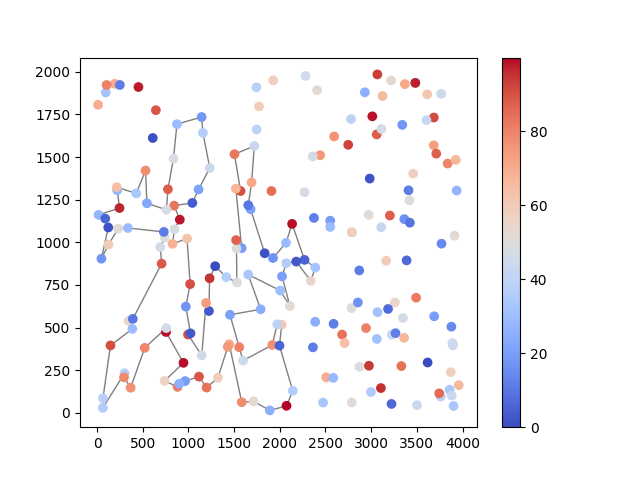
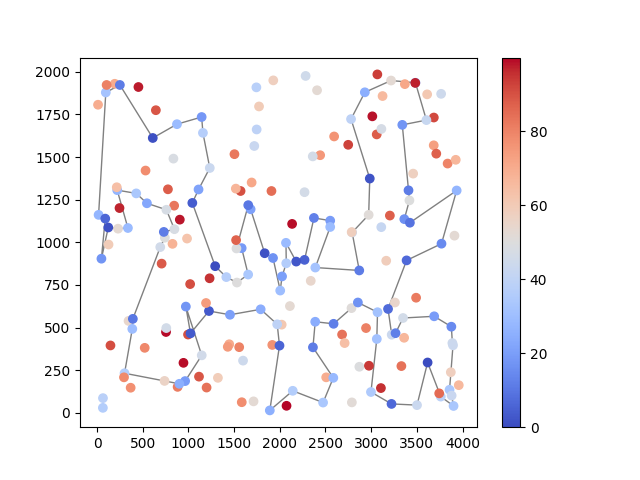
silly bug fix

diff --git a/1/greedyCycle.py b/1/greedyCycle.py
@@ -7,7 +7,7 @@ TOTAL_SOLUTIONS = 200
 
 data = read_file()
 matrix = get_matrix(data)
-costs = get_costs(matrix)
+costs = get_costs(data)
 to_find = ceil(len(matrix) / 2)
 indices = [idx for idx, _ in enumerate(matrix)]
 
@@ -16,25 +16,16 @@ res = []
 run_time = time()
 
 def get_insert_cost(solution, node, idx):
-    if len(solution) == 1 or len(solution) == idx + 1:
-        return matrix[solution[-1]][node] + matrix[node][solution[0]] + costs[node]
-    return costs[node] + matrix[solution[idx]][node] + matrix[node][solution[idx+1]] - matrix[solution[idx]][solution[idx+1]]
+    if idx == 0 or len(solution) == idx:
+        return matrix[solution[-1]][node] + costs[node] + matrix[node][solution[0]] - matrix[solution[-1]][solution[0]] 
+    return costs[node] + matrix[solution[idx - 1]][node] + matrix[node][solution[idx]] - matrix[solution[idx - 1]][solution[idx]]
 
 for _ in range(TOTAL_SOLUTIONS):
     sol = [choice(indices)]
     while len(sol) < to_find:
-        possible_next_node = (i for i in indices if i not in sol)
-        # All inserts after idx
-        possible_inserts = ((i, idx) for i in indices for idx in range(len(sol)) if i not in sol)
+        possible_inserts = ((i, idx) for i in indices for idx in range(len(sol) + 1) if i not in sol)
         next = min(possible_inserts, key=lambda x: get_insert_cost(sol, x[0], x[1]))
-        # Insert at the beginning
-        beginning_next = min(possible_next_node, key=lambda x: costs[x] + matrix[x][sol[0]] + matrix[sol[-1]][x])
-
-        if get_insert_cost(sol, next[0], next[1]) < costs[beginning_next] + matrix[beginning_next][sol[0]] + matrix[sol[-1]][beginning_next]:
-            sol.insert(next[1] + 1, next[0])
-        else:
-            sol.insert(0, beginning_next)
-
+        sol.insert(next[1], next[0])
     res.append(sol)
 
 run_time = time() - run_time

diff --git a/1/nearestNeighborFullRoute.py b/1/nearestNeighborFullRoute.py
@@ -8,7 +8,7 @@ TOTAL_SOLUTIONS = 200
 
 data = read_file()
 matrix = get_matrix(data)
-costs = get_costs(matrix)
+costs = get_costs(data)
 to_find = ceil(len(matrix) / 2)
 indices = [idx for idx, _ in enumerate(matrix)]
 
@@ -17,25 +17,18 @@ res = []
 run_time = time()
 
 def get_insert_cost(solution, node, idx):
-    if len(solution) == 1 or len(solution) == idx + 1:
+    if idx == 0:
+        return matrix[node][solution[0]] + costs[node]
+    if len(solution) == idx:
         return matrix[solution[-1]][node] + costs[node]
-    return costs[node] + matrix[solution[idx]][node] + matrix[node][solution[idx+1]] - matrix[solution[idx]][solution[idx+1]]
+    return costs[node] + matrix[solution[idx-1]][node] + matrix[node][solution[idx]] - matrix[solution[idx-1]][solution[idx]]
 
 for _ in range(TOTAL_SOLUTIONS):
     sol = [choice(indices)]
     while len(sol) < to_find:
-        possible_next_node = (i for i in indices if i not in sol)
-        # All inserts after idx
-        possible_inserts = ((i, idx) for i in indices for idx in range(len(sol)) if i not in sol)
+        possible_inserts = ((i, idx) for i in indices for idx in range(len(sol) + 1) if i not in sol)
         next = min(possible_inserts, key=lambda x: get_insert_cost(sol, x[0], x[1]))
-        # Insert at the beginning
-        beginning_next = min(possible_next_node, key=lambda x: costs[x] + matrix[x][sol[0]])
-
-        if get_insert_cost(sol, next[0], next[1]) < costs[beginning_next] + matrix[beginning_next][sol[0]]:
-            sol.insert(next[1] + 1, next[0])
-        else:
-            sol.insert(0, beginning_next)
-
+        sol.insert(next[1], next[0])
     res.append(sol)
 
 run_time = time() - run_time

diff --git a/1/report.md b/1/report.md
@@ -41,9 +41,11 @@ to_find = ⌈len(matrix) / 2⌉
 indices = [i for i∊ℕ and i<len(matrix)]
 
 function get_insert_cost(solution, node, idx):
-    if len(solution) == 1 or len(solution) == idx + 1:
+    if idx == 0:
+        return matrix[node][solution[0]] + costs[node]
+    if len(solution) == idx:
         return matrix[solution[-1]][node] + costs[node]
-    return costs[node] + matrix[solution[idx]][node] + matrix[node][solution[idx+1]] - matrix[solution[idx]][solution[idx+1]]
+    return costs[node] + matrix[solution[idx-1]][node] + matrix[node][solution[idx]] - matrix[solution[idx-1]][solution[idx]]
 
 solution = [random.choice(indices)]
 while len(solution) < to_find:
@@ -71,23 +73,15 @@ to_find = ⌈len(matrix) / 2⌉
 indices = [i for i∊ℕ and i<len(matrix)]
 
 function get_insert_cost(solution, node, idx):
-    if len(solution) == 1 or len(solution) == idx + 1:
-        return matrix[solution[-1]][node] + matrix[node][solution[0]] + costs[node]
-    return costs[node] + matrix[solution[idx]][node] + matrix[node][solution[idx+1]] - matrix[solution[idx]][solution[idx+1]]
+    if idx == 0 or len(solution) == idx:
+        return matrix[solution[-1]][node] + costs[node] + matrix[node][solution[0]] - matrix[solution[-1]][solution[0]] 
+    return costs[node] + matrix[solution[idx - 1]][node] + matrix[node][solution[idx]] - matrix[solution[idx - 1]][solution[idx]]
 
 solution = [random.choice(indices)]
 while len(solution) < to_find:
-    possible_next_node = indices\solution
-    possible_inserts = [(node, index) for node in indices for index∊ℕ and index<len(solution) and index∉solution]
-    # All inserts after idx
+    possible_inserts = [(node, index) for node in indices for index∊ℕ and index<=len(solution) and index∉solution]
     next = argmin[x∊possible_inserts](get_insert_costs(solution, x[0], x[1]))
-    # Insert at the beginning
-    beginning_next = argmin[x∊possible_next_node](cost[x] + matrix[x][solution[0]] +  matrix[solution[-1]][x])
-    
-    if get_insert_cost(solution, next[0], next[1]) < costs[beginning_next] + matrix[beginning_next][solution[0]] matrix[solution[-1]][beginning_next]:
-            solution.insert(next[1] + 1, next[0])
-        else:
-            solution.insert(0, beginning_next)
+    solution.insert(next[1], next[0])
 ```
 
 
@@ -96,15 +90,15 @@ while len(solution) < to_find:
 |  | Random solutions | Nearest neighbor | Nearest neighbor (all positions) | Greedy cycle |
 | --- | --- | --- | --- | --- |
 | **Instance A** |
-| Min | 225267 | 84362 | 107908 | 108734 |
-| Avg | 261519.96 | 87457.88 | 109954.945 | 112436.94 |
-| Max | 290575 | 89933 | 113841 | 129808 |
-| *Execution time* | 2.93ms | 947.68ms | 76415.7ms | 74736.5ms |
+| Min | 225267 | 84362 | 72328 | 72590 |
+| Avg | 261519.96 | 87457.88 | 74322.08 | 73781.12 |
+| Max | 290575 | 89933 | 77022 | 75281 |
+| *Execution time* | 2.93ms | 947.68ms | 151516.94ms | 141700.29ms |
 | **Instance B** |
-| Min | 178305 | 56007 | 135098 | 135631 |
-| Avg | 207024.785 | 59485.015 | 138160.42 | 139849.3 |
-| Max | 231261 | 63166 | 142466 | 163788 |
-| *Execution time* | 3.09ms | 949.7ms | 76687.14ms | 102721.43ms |
+| Min | 178305 | 56007 | 54139 | 55655 |
+| Avg | 207024.785 | 59485.015 | 59401.325 | 59135.765 |
+| Max | 231261 | 63166 | 64061 | 63734 |
+| *Execution time* | 3.09ms | 949.7ms | 162898.49ms | 158964.65ms |
 
 ## Instance A
 
@@ -119,6 +113,8 @@ Max: 290575
 Best solution: [12, 141, 90, 162, 44, 148, 7, 93, 79, 107, 116, 58, 136, 181, 23, 130, 78, 13, 129, 112, 110, 141, 66, 160, 184, 140, 22, 106, 123, 71, 76, 7, 34, 124, 187, 145, 72, 78, 156, 156, 30, 186, 84, 141, 152, 9, 62, 51, 92, 157, 183, 132, 196, 84, 23, 112, 120, 97, 175, 137, 13, 4, 185, 27, 192, 64, 153, 32, 192, 178, 0, 26, 140, 84, 58, 86, 80, 115, 165, 109, 184, 48, 65, 88, 3, 26, 8, 87, 191, 52, 197, 178, 6, 101, 180, 144, 160, 156, 84, 72]
 
 ![random](./images/randomA.png)
+
+(*In all images, the color represents node cost*)
 
 Run time: 2.93ms
 
@@ -138,31 +134,31 @@ Run time 947.68ms
 
 ### Nearest neighbor considering adding the node at all possible position
 
-Min: 107908
+Min: 72328
 
-Avg: 109954.945
+Avg: 74322.08
 
-Max: 113841
+Max: 77022
 
-Best solution: [157, 71, 4, 76, 132, 162, 68, 44, 14, 38, 80, 66, 108, 82, 60, 167, 116, 149, 63, 168, 119, 11, 49, 152, 100, 90, 148, 83, 123, 160, 12, 161, 125, 97, 95, 127, 120, 188, 129, 104, 69, 94, 110, 92, 32, 171, 2, 198, 166, 183, 10, 22, 25, 114, 118, 181, 135, 121, 61, 73, 41, 84, 99, 131, 36, 177, 74, 52, 179, 53, 140, 45, 98, 70, 96, 27, 87, 189, 40, 187, 30, 23, 141, 145, 191, 180, 28, 102, 185, 144, 67, 35, 156, 172, 16, 51, 133, 173, 196, 18]
+Best solution: [104, 129, 69, 127, 97, 168, 116, 149, 63, 11, 49, 160, 83, 123, 100, 152, 108, 60, 31, 48, 80, 91, 157, 71, 4, 76, 132, 180, 28, 102, 185, 35, 156, 51, 16, 67, 144, 140, 53, 179, 52, 177, 36, 33, 9, 54, 131, 174, 8, 164, 186, 136, 163, 29, 101, 178, 1, 169, 3, 50, 147, 47, 93, 106, 42, 89, 113, 130, 159, 146, 170, 153, 193, 78, 88, 107, 64, 57, 182, 151, 150, 176, 72, 134, 84, 58, 158, 192, 181, 114, 135, 73, 45, 87, 141, 187, 30, 189, 2, 171]
 
 ![nnfull](./images/nnfullA.png)
 
-Run time 76415.7ms
+Run time 151516.94ms
 
 ### Greedy cycle
 
-Min: 108734
+Min: 72590
 
-Avg: 112436.94
+Avg: 73781.12
 
-Max: 129808
+Max: 75281
 
-Best solution: [14, 100, 152, 66, 108, 82, 60, 167, 116, 149, 63, 168, 119, 11, 49, 123, 83, 160, 12, 97, 95, 127, 188, 129, 104, 69, 94, 110, 120, 161, 125, 198, 92, 32, 171, 2, 166, 183, 10, 96, 27, 22, 25, 114, 118, 181, 135, 61, 73, 121, 98, 70, 87, 45, 185, 140, 41, 53, 179, 177, 99, 131, 36, 74, 52, 144, 67, 16, 51, 133, 139, 18, 173, 196, 35, 172, 156, 102, 28, 180, 191, 141, 145, 189, 40, 187, 30, 23, 162, 148, 90, 68, 44, 132, 76, 4, 71, 157, 91, 38]
+Best solution: [80, 91, 157, 71, 4, 76, 132, 180, 28, 102, 185, 35, 156, 51, 16, 67, 144, 140, 53, 179, 52, 177, 36, 33, 9, 54, 131, 174, 8, 142, 164, 186, 136, 163, 29, 101, 178, 1, 169, 3, 50, 147, 47, 93, 106, 42, 89, 113, 130, 159, 146, 170, 153, 193, 78, 88, 107, 64, 57, 182, 151, 150, 176, 72, 134, 84, 58, 158, 192, 181, 114, 135, 73, 45, 87, 141, 187, 30, 189, 2, 171, 69, 127, 97, 160, 83, 123, 90, 100, 152, 108, 60, 49, 11, 63, 168, 149, 116, 31, 48]
 
 ![greedycycle](./images/greedycycleA.png)
 
-Run time 74736.5ms
+Run time 141700.29ms
 
 ## Instance B
 
@@ -196,34 +192,38 @@ Run time 949.7ms
 
 ### Nearest neighbor considering adding the node at all possible position
 
-Min: 135098
-Avg: 138160.42
-Max: 142466
-Best solution: [131, 56, 118, 68, 100, 110, 112, 23, 93, 9, 188, 2, 14, 20, 74, 17, 171, 39, 99, 163, 88, 87, 82, 179, 126, 181, 152, 167, 51, 85, 101, 107, 59, 73, 25, 34, 24, 11, 98, 151, 22, 111, 122, 173, 109, 137, 184, 3, 27, 35, 31, 67, 66, 119, 84, 186, 153, 182, 150, 52, 129, 90, 80, 127, 106, 192, 162, 76, 135, 75, 0, 79, 185, 144, 104, 77, 159, 54, 78, 41, 10, 143, 148, 114, 196, 12, 18, 187, 194, 190, 70, 199, 165, 169, 81, 94, 105, 139, 61, 193]
+Min: 54139
+
+Avg: 59401.325
+
+Max: 64061
+
+Best solution: [121, 198, 96, 48, 43, 156, 89, 57, 104, 54, 90, 14, 2, 74, 20, 153, 182, 52, 129, 127, 80, 192, 162, 185, 76, 135, 27, 111, 98, 151, 122, 173, 3, 184, 86, 46, 72, 117, 8, 120, 133, 136, 172, 160, 69, 168, 189, 21, 183, 130, 191, 30, 176, 38, 47, 140, 154, 97, 26, 125, 177, 170, 115, 180, 6, 103, 178, 132, 29, 197, 36, 62, 175, 134, 45, 157, 141, 155, 71, 60, 40, 33, 64, 85, 59, 73, 51, 167, 181, 152, 34, 24, 11, 66, 67, 31, 88, 179, 87, 82]
 
 ![nnfull](./images/nnfullB.png)
 
-Run time 76687.14ms
+Run time 162898.49ms
 
 ### Greedy cycle
 
-Min: 135631
+Min: 55655
 
-Avg: 139849.3
+Avg: 59135.765
 
-Max: 163788
+Max: 63734
 
-Best solution: [143, 148, 114, 196, 193, 61, 139, 105, 94, 81, 169, 165, 199, 70, 190, 194, 187, 18, 12, 41, 78, 54, 159, 77, 104, 144, 185, 79, 0, 75, 135, 76, 162, 192, 106, 127, 80, 129, 52, 150, 182, 20, 74, 186, 84, 119, 66, 67, 31, 35, 27, 3, 184, 137, 109, 173, 122, 111, 22, 151, 98, 11, 24, 34, 25, 73, 59, 107, 101, 85, 51, 167, 152, 181, 126, 179, 82, 87, 88, 163, 99, 39, 171, 17, 188, 2, 9, 93, 23, 112, 110, 100, 68, 118, 131, 56, 14, 153, 90, 10]
+Best solution: [36, 197, 6, 180, 115, 170, 97, 140, 47, 155, 71, 175, 134, 45, 157, 60, 141, 40, 33, 64, 21, 189, 168, 69, 160, 172, 136, 133, 120, 8, 117, 72, 46, 86, 184, 3, 173, 122, 151, 98, 111, 27, 135, 76, 185, 162, 192, 80, 52, 182, 20, 74, 2, 93, 110, 118, 14, 153, 90, 129, 127, 54, 104, 57, 89, 156, 43, 48, 96, 198, 121, 63, 130, 191, 183, 30, 176, 38, 154, 26, 125, 177, 138, 158, 145, 149, 147, 42, 116, 37, 146, 13, 28, 65, 178, 103, 29, 132, 1, 174]
 
 ![greedycycle](./images/greedycycleB.png)
 
-Run time 102721.43ms
-
+Run time 158964.65ms
 
 ## Conclusions
 
-Out of the three algorithms, regular nearest neighbor finds solutions the fastest and it seems to find the best solutions.
+Out of the three algorithms, regular Nearest Neighbor finds good solutions the quickest, but Nearest Neighbor considering all positions and Greedy Cycle beat it by the quality of solutions, while suffering in execution time. In both instances, Greedy Cycle finds a slightly worse best solution than Nearest Neighbor considering all positions, but it finds better solutions on average.
 
+
+*All solutions have been verified with the solution checker*
 
 ## Source code
 
